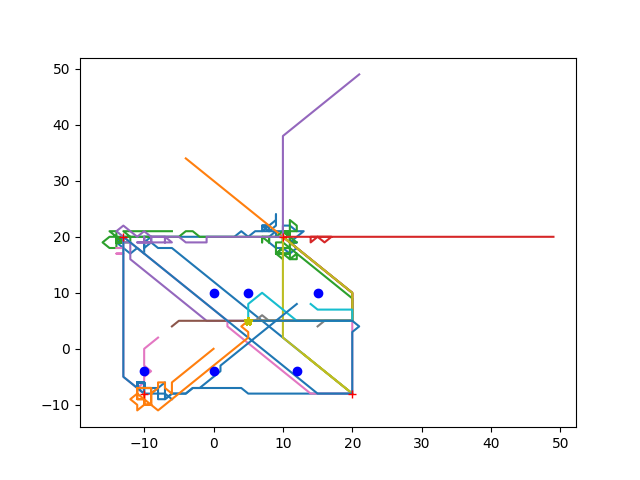
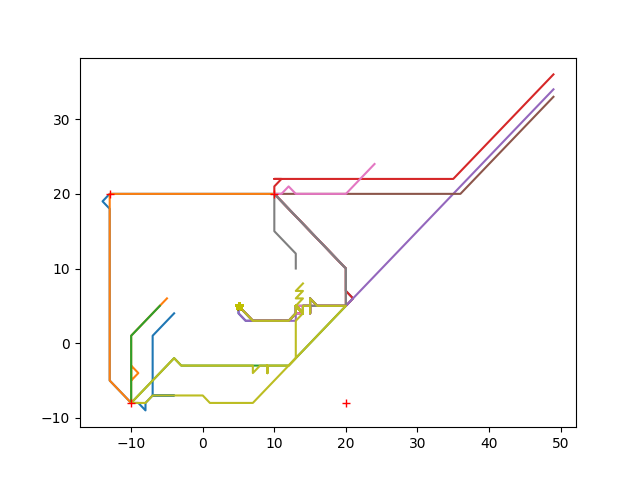
Added buffer to flight destination to serve as no fly zone

diff --git a/aan_models/cam_airnav_mod.py b/aan_models/cam_airnav_mod.py
@@ -33,6 +33,25 @@ class Air_Object:
         self.distn = 0
         self.agg_distn = []
         self.sim_agg_distn = []
+    
+    @staticmethod
+    def get_path_twopoints(t_down, dest):
+        # get path between t_down to dest on x-axis
+        if t_down[0] > dest[0]:
+            p0=list(range(dest[0],t_down[0]+1))
+        elif t_down[0] < dest[0]:
+            p0=list(range(t_down[0],dest[0]+1))
+        elif t_down[0] == dest[0]:
+            p0=list([t_down[0]]*abs(t_down[1]-dest[1]))
+
+        # get path between t_down to dest on y-axis
+        if t_down[1] > dest[1]:
+            p1=list(range(dest[1],t_down[1]+1))
+        elif t_down[1] < dest[1]:
+            p1=list(range(t_down[1],dest[1]+1))
+        elif t_down[1] == dest[1]:
+            p1=list([t_down[1]]*abs(t_down[0]-dest[0]))
+        return list(map(lambda x,y:[x,y],p0,p1))
 
 # to define object path; combining the object's different progressive positions
     def collect_pos(self):
@@ -102,8 +121,10 @@ class Field:
 class Flight(Air_Object):
     def __init__(self, dept, dest, t_down, trajectory, size):
         self.t_down = t_down
+        self.desconrad = []
         self.trajectory = trajectory
         super().__init__(dept, dest, size)
+    
     # def touch_down(self, direction):
     #     if direction == 'north':
     #         self.t_down = [self.dest[0], self.dest[1]]
@@ -409,7 +430,7 @@ def create_flights(north,south,east,west,tma,dest,t_down,trajectory,size,spread,
 
 '''Simulation'''
 # simulate flights
-def sim_iter(tma,flights,flights_pos,waypoints,obstructions,points,total_tstep):
+def sim_iter(tma,flights,flights_pos,waypoints,obstructions,points,no_flyzone_size,tdown_dest_path_size,total_tstep):
     # collect departures in flight agg_pos and get points conflict dens
     col_dept(flights)
     p_con_rad(waypoints)
@@ -423,7 +444,19 @@ def sim_iter(tma,flights,flights_pos,waypoints,obstructions,points,total_tstep):
         f.way_p=[w.pos for w in waypoints]
         f.way_p=ccf.cord_best_path(f)
 
-    flights_dest = [fd.dest for fd in flights]
+    flights_dest=[]
+    desconrad=[]
+    for fd in flights:
+        flights_dest += [fd.dest]
+        # destination buffer or block
+        desconrad+=ccf.obj_radius(no_flyzone_size,fd.dest)
+        # path from touch down to destination
+        # direct path
+        tdown_dest = Air_Object.get_path_twopoints(fd.t_down,fd.dest)
+        # buffer path by including radius around it
+        tdown_dest = ccf.obj_radius(tdown_dest_path_size,tdown_dest)
+        # remove coord of path from touch down to destination in destination block to create access for flights to destination
+        fd.desconrad = [dc for dc in desconrad if dc not in tdown_dest]
 
     if total_tstep>1:
         for t in range(total_tstep):
@@ -487,7 +520,7 @@ def sim_iter(tma,flights,flights_pos,waypoints,obstructions,points,total_tstep):
 
 
 # container function for simulation
-def simulate(tma,flights,waypoints,obstructions,points,total_tsteps):
+def simulate(tma,flights,waypoints,obstructions,points,no_flyzone_size,tdown_dest_path_size,total_tsteps):
     flights_pos=[f.pos for f in flights]
 
-    sim_iter(tma,flights,flights_pos,waypoints,obstructions,points,total_tsteps)
+    sim_iter(tma,flights,flights_pos,waypoints,obstructions,points,no_flyzone_size,tdown_dest_path_size,total_tsteps)

diff --git a/aan_models/run_cam_airnav.py b/aan_models/run_cam_airnav.py
@@ -33,14 +33,16 @@ if __name__ == '__main__':
 
     dest = [5,5]
     t_down = [20,5]
+    no_flyzone_size=7
+    tdown_dest_path_size=2
     f1 = Flight(dept=[-7,3], dest=dest, t_down=t_down, trajectory='short', size=2)
-    f2 = Flight(dept=[14,3], dest=dest, t_down=t_down, trajectory='short', size=1)
+    f2 = Flight(dept=[25,25], dest=dest, t_down=t_down, trajectory='short', size=1)
     f3 = Flight(dept=[12,0], dest=dest, t_down=t_down, trajectory='medium', size=3) #[3,8]
     f4 = Flight(dept=[13,9], dest=dest, t_down=t_down, trajectory='short', size=1)
     f5 = Flight(dept=[5,5], dest=dest, t_down=t_down, trajectory='short', size=1) #[10,3]
     f6 = Flight(dept=[1,1], dest=dest, t_down=t_down, trajectory='long', size=1) #[15,2]
 
-    fr1 = create_flights(north=3, south=2, east=3, west=4, tma=tma, dest=dest, t_down=t_down, trajectory='long', size=1, spread=0) #[5, 1]
+    fr1 = create_flights(north=3, south=2, east=0, west=0, tma=tma, dest=dest, t_down=t_down, trajectory='long', size=1, spread=3) #[5, 1]
     fr2 = create_flights(north=1, south=0, east=2, west=4, tma=tma, dest=dest, t_down=t_down, trajectory='short', size=2, spread=1) #[7, 15]
     fr3 = create_flights(north=2, south=1, east=1, west=0, tma=tma, dest=dest, t_down=t_down, trajectory='medium', size=1, spread=2) #[17, 20]
 
@@ -60,13 +62,13 @@ if __name__ == '__main__':
     p1 = Point(pos=[6,2], size=2)
     p2 = Point(pos=[10,5], size=3)
 
-    flights = fr1+fr2+fr3+[f1,f2,f3,f4,f5,f6]
+    flights = fr1+fr2+[f1,f2,f3,f4,f5,f6]
     waypoints = [w1,w2,w4,w5]
-    obstructions = [ob1,ob2,ob3,ob4,ob5,ob6]
+    obstructions = []
     points = [p1,p2]
 
 
 # to run simulation
-    simulate(tma,flights,waypoints,obstructions,points,total_tsteps=300)
+    simulate(tma,flights,waypoints,obstructions,points,no_flyzone_size,tdown_dest_path_size,total_tsteps=300)
 
     display_results(tma,flights,waypoints)

diff --git a/aan_models/cam_airnavconfrules.py b/aan_models/cam_airnavconfrules.py
@@ -6,7 +6,10 @@ hov_fli=0
 '''Conflicts Resolution'''
 # resolving an object's conflict radius (size=1)
 def obj_radius(size, pos):
-    rad=[pos]
+    if isinstance(pos[0],list):
+        rad = pos
+    else:
+        rad=[pos]
 
     for m in range(size):
         rn=len(rad)
@@ -51,7 +54,7 @@ def cord_best_path(flight):
     # sorted(list(map(lambda y: dist(pcord,y),wpp)))
     
     if flight.trajectory == 'short':
-        return [flight.t_down]
+        return [dest_sorted[0]]+[flight.t_down]
     elif flight.trajectory == 'medium':
         c_shdist = dest_sorted[0:-2]+[flight.t_down]
         # c_shdist = [i for i in dest if dist(pcord,i)==sht_dist][0]
@@ -114,6 +117,7 @@ def NE(pos):
 def NN(pos):
     pos[1] = pos[1] + 1
 
+
 # flight movement in conflict and non-conflict
 def conf_flight_movement(flights,fl,obs_pos,des_conf_r):
     fls=[f for f in flights if f != fl]
@@ -123,9 +127,10 @@ def conf_flight_movement(flights,fl,obs_pos,des_conf_r):
     # fl.tdes = temp_des
 
     pos=fl.pos
-    print('flight',fl.size,' ',fl.pos,fl.way_p[0])
+    # print('flight',fl.size,' ',fl.pos,fl.way_p[0])
     fl.tdes=tdes=fl.way_p[0]
     des=fl.dest
+    t_down=fl.t_down
 
     # define conflict radius around destination
     con_des=obj_radius(des_conf_r,des)
@@ -138,6 +143,7 @@ def conf_flight_movement(flights,fl,obs_pos,des_conf_r):
 
     con_rad=[]
     objs_con_rad(fls,con_rad)
+    con_rad+=fl.desconrad
 
     # add pos of obstructions to con_rad
     con_rad+=obs_pos
